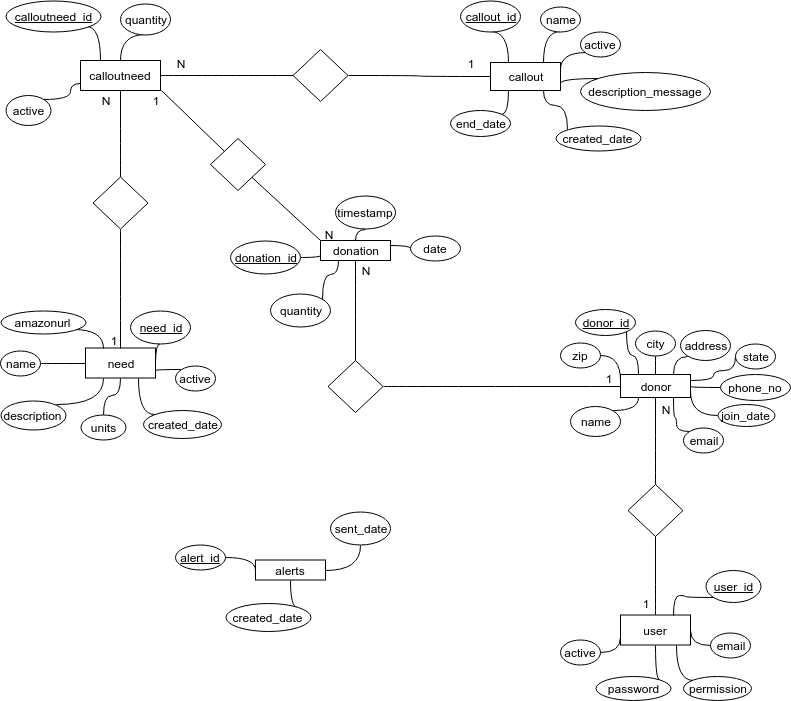
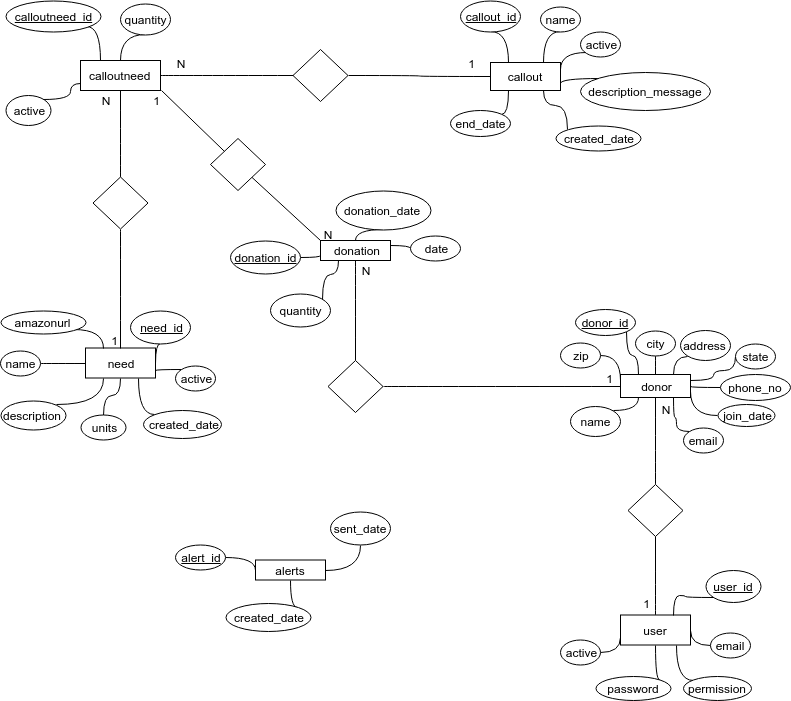
database documentaion second draft. fixed typos & ER diagram

diff --git a/documentation/database-documentation/database-schema.md b/documentation/database-documentation/database-schema.md
@@ -1,7 +1,7 @@
-#Interfaith Donation Database Schema
+# Interfaith Donation Database Schema
 
-##Tables
-* *Exammple for clarification will be donations needed for summer*
+## Tables
+* *Example for clarification will be donations needed for summer*
 * **need** - A need represents a particular need or item that Interfaith Sanctuary requires. A need for summer would be sunsreen. Needs are uniquely identified by their ID. A need has a name, description, unit of measurement, a created date, active or inactive (such as winter needs in summer would be inactive), and an Amazon url link for the particular item associated with the need. Units of measurements are represented by strings; such as lbs, oz, number of items, etc...
 * **callout** - A callout is where a need gets represented. In our example our callout would be Summer. A callout is uniquely identified by its ID. A callout has a name, a description message, whether it is active or inactive, a created date and also an end date. An example would be creating a callout for Summer in March or April and having it end in September, while having an attached description message for the callout.
 * **calloutneed** - This table represents the intermediate step for connecting our many-to-many relationship between need and callout. A calloutneed is uniquely identified by its ID. A calloutneed also has a particular need_id and callout_id associated. Calloutneed is the collection of needs for a particular callout. In our example we could have a Summer callout as well as another Summer related callout, where our sunscreen need can be represented in either callout, both, or neither. There is one need to many calloutneeds and one callout for many calloutneeds. This table is a join table between callout and need, because ideally there can be many needs to a callout and vise-versa.
